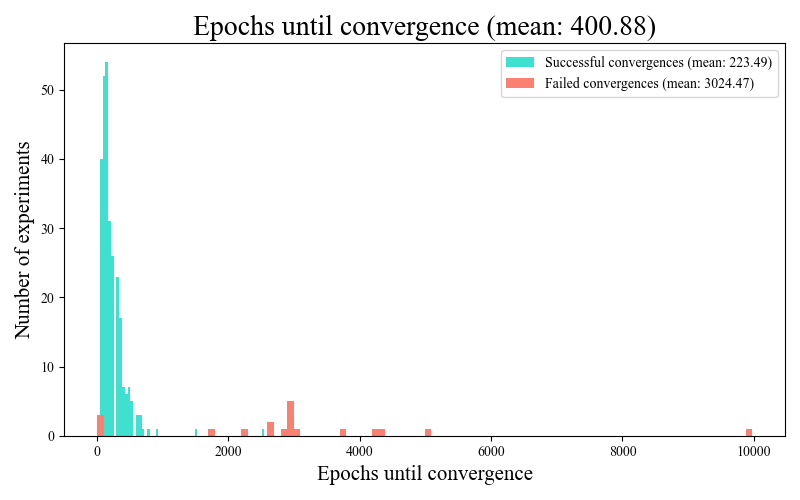
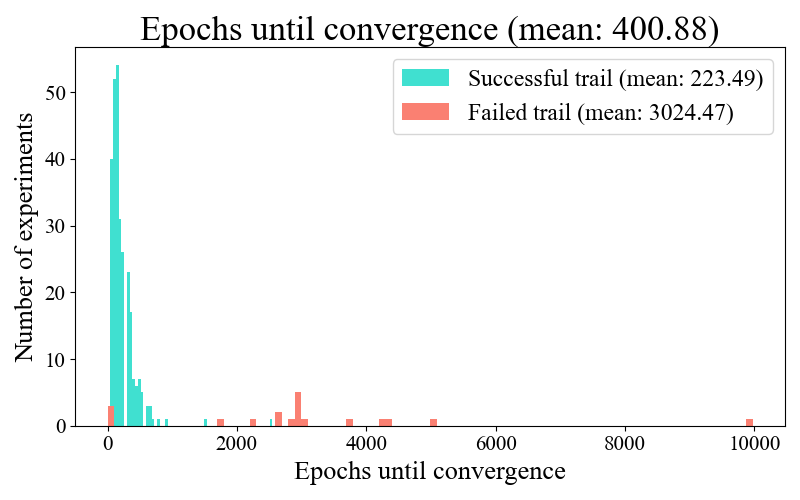
Updating from tlp computer

diff --git a/check_results.py b/check_results.py
@@ -61,8 +61,8 @@ def analyze_for_100_5_3():
     xs = np.array(list(scale_successes1.keys()))
     ys1, ys2 = list(scale_successes1.values()), list(scale_successes2.values())
     width, space = 2, 2
-    plt.bar(xs, ys1, color="royalblue", width=width, edgecolor="black", label=f"Integer case ({successes1})")
-    plt.bar(xs - space, ys2, color="hotpink", width=width, edgecolor="black", label=f"Normalized case ({successes2})")
+    plt.bar(xs, ys1, color="royalblue", width=width, edgecolor="black", label=f"Integer version ({successes1})")
+    plt.bar(xs - space, ys2, color="hotpink", width=width, edgecolor="black", label=f"Real version ({successes2})")
     plt.bar(xs + space, list(scale_successes.values()), color="turquoise", width=width, edgecolor="black",
             label=f"Total ({total_successes})")
     plt.xticks(list(scale_successes1.keys()), rotation=45)
@@ -71,8 +71,8 @@ def analyze_for_100_5_3():
     plt.ylabel("Number of successes", fontsize=15)
     plt.legend()
     plt.tight_layout()
-    plt.savefig(join("plots", "successes_per_scale_100_5_3.png"))
-    plt.close()
+    plt.savefig(join("plots", "default_hp_results", "successes_per_scale_100_5_3.png"))
+    plt.show()
 
 
 def analyze_for_hybrid_200():
@@ -127,7 +127,7 @@ def analyze_for_300_vary():
     # Modify the working directory
     WORKING_DIR = join("output_dirs", "300_vary")
 
-    plt.subplots(1, 4, figsize=(18, 4.5))
+    plt.subplots(2, 2, figsize=(18, 12))
 
     for i in range(len(combinations)):
         # Sum the successes
@@ -167,22 +167,23 @@ def analyze_for_300_vary():
         if i == 4:
             continue
 
-        plt.subplot(1, 4, i + 1)
+        plt.subplot(2, 2, i + 1)
         plt.title(
             f"Successes per scale for {combinations[i][1]}_{combinations[i][0]}",
             fontsize=20)
         xs = np.array(list(scale_successes1.keys()))
         ys1, ys2 = list(scale_successes1.values()), list(scale_successes2.values())
         width, space = 2, 2
-        plt.bar(xs, ys1, color="royalblue", width=width, edgecolor="black", label=f"Integer case ({successes1})")
+        plt.bar(xs, ys1, color="royalblue", width=width, edgecolor="black", label=f"Integer version ({successes1})")
         plt.bar(xs - space, ys2, color="hotpink", width=width, edgecolor="black",
-                label=f"Normalized case ({successes2})")
+                label=f"Real version ({successes2})")
         plt.bar(xs + space, list(scale_successes.values()), color="turquoise", width=width, edgecolor="black",
                 label=f"Total ({total_successes})")
         plt.xticks(list(scale_successes1.keys()), rotation=45)
         plt.yticks(range(repetitions + 1))
-        plt.xlabel("Scale", fontsize=15)
-        if i == 0:
+        if i == 2 or i == 3:
+            plt.xlabel("Scale", fontsize=15)
+        if i == 0 or i == 2:
             plt.ylabel("Number of successes", fontsize=15)
         plt.legend()
 
@@ -193,8 +194,8 @@ def analyze_for_300_vary():
 
 
 def analyze_ablation():
-    plt.subplots(2, 3, figsize=(18, 10))
-    plt.suptitle("Ablation study results", fontsize=30)
+    plt.subplots(3, 2, figsize=(13, 17))
+    plt.suptitle("Ablation study results", fontsize=40, y=0.99)
     # Sum the successes
     successes1, successes2, successes3, successes4 = 0, 0, 0, 0
     scale_successes1, scale_successes2, scale_successes3, scale_successes4 = {}, {}, {}, {}
@@ -242,8 +243,8 @@ def analyze_ablation():
             successes4 += 1
             scale_successes4[scale] += 1
 
-    plt.subplot(2, 3, 1)
-    plt.title(f"Ablation success per scale - 100", fontsize=20)
+    plt.subplot(3, 2, 1)
+    plt.title(f"Ablation success per scale - 100", fontsize=27)
     xs = np.array(list(scale_successes1.keys()))
     ys1, ys2, ys3, ys4 = (list(scale_successes1.values()), list(scale_successes2.values()),
                           list(scale_successes3.values()), list(scale_successes4.values()))
@@ -256,10 +257,10 @@ def analyze_ablation():
             label=f"Without using regularization ({successes2})")
     plt.bar(xs + 1.5 * space, ys4, color="hotpink", width=width, edgecolor="black",
             label=f"Full model ({successes4})")
-    plt.xticks(list(scale_successes1.keys()), rotation=45)
-    plt.yticks(range(repetitions + 1))
+    plt.xticks(list(scale_successes1.keys()), rotation=45, fontsize=15)
+    plt.yticks(range(repetitions + 1), fontsize=15)
     # plt.xlabel("Scale", fontsize=15)
-    plt.ylabel("Amount of successes", fontsize=15)
+    plt.ylabel("Amount of successes", fontsize=20)
     plt.legend()
 
     combinations = [[3, 5], [3, 6], [3, 4], [4, 4], [2, 7]]
@@ -313,8 +314,8 @@ def analyze_ablation():
                 successes4 += 1
                 scale_successes4[scale] += 1
 
-        plt.subplot(2, 3, i + 2)
-        plt.title(f"Ablation successes per scale for {combinations[i][1]}_{combinations[i][0]}", fontsize=20)
+        plt.subplot(3, 2, i + 2)
+        plt.title(f"Ablation successes per scale for {combinations[i][1]}_{combinations[i][0]}", fontsize=27)
         xs = np.array(list(scale_successes1.keys()))
         ys1, ys2, ys3, ys4 = (list(scale_successes1.values()), list(scale_successes2.values()),
                               list(scale_successes3.values()), list(scale_successes4.values()))
@@ -327,12 +328,12 @@ def analyze_ablation():
                 label=f"Without using regularization ({successes2})")
         plt.bar(xs + 1.5 * space, ys4, color="hotpink", width=width, edgecolor="black",
                 label=f"Full model ({successes4})")
-        plt.xticks(list(scale_successes1.keys()), rotation=45)
-        plt.yticks(range(repetitions + 1))
-        if i > 1:
-            plt.xlabel("Scale", fontsize=15)
-        if i == 2:
-            plt.ylabel("Amount of successes", fontsize=15)
+        plt.xticks(list(scale_successes1.keys()), rotation=45, fontsize=15)
+        plt.yticks(range(repetitions + 1), fontsize=15)
+        if i > 2:
+            plt.xlabel("Scale", fontsize=20)
+        if i in [1, 3]:
+            plt.ylabel("Amount of successes", fontsize=20)
         plt.legend()
 
     plt.tight_layout(pad=1.3)
@@ -529,16 +530,111 @@ def find_mean_epoch():
 
     # Plot the histogram where successful and failed epochs are in different colors
     plt.figure(figsize=(8, 5))
-    plt.title(f"Epochs until convergence (mean: {mean_epochs:.2f})", fontsize=20)
-    plt.hist(successful_epochs, bins=60, color="turquoise", label=f"Successful convergences (mean: {mean_successful:.2f})")
-    plt.hist(failed_epochs, bins=100, color="salmon", label=f"Failed convergences (mean: {mean_fail:.2f})")
-    plt.xlabel("Epochs until convergence", fontsize=15)
-    plt.ylabel("Number of experiments", fontsize=15)
-    plt.legend()
+    plt.title(f"Epochs until convergence (mean: {mean_epochs:.2f})", fontsize=25)
+    plt.hist(successful_epochs, bins=60, color="turquoise", label=f"Successful trail"
+                                                                  f" (mean: {mean_successful:.2f})")
+    plt.hist(failed_epochs, bins=100, color="salmon", label=f"Failed trail (mean: {mean_fail:.2f})")
+    plt.xlabel("Epochs until convergence", fontsize=19)
+    plt.ylabel("Number of experiments", fontsize=19)
+    plt.xticks(fontsize=15)
+    plt.yticks(fontsize=15)
+    # Increase font size
+    plt.legend(fontsize=17)
     plt.tight_layout()
     plt.savefig(join("plots", "mean_epochs_until_convergence_300_vary.png"))
     plt.show()
 
 
+def plot_loss_distribution_of_fails():
+    """
+    Find the mean epoch for convergence.
+    """
+    WORKING_DIR = join("output_best_hp", "dataset_hybrid_1000_deg15", "train_17")
+    epochs, success, decomposable, losses = [], [], [], []
+
+    for i in range(1, 1001):
+        thread_dir = join(WORKING_DIR, "thread_" + str(i))
+        with open(join(thread_dir, "polynomials.txt"), "r") as f:
+            lines = f.readlines()
+            loss = float(lines[6].split("Loss = ")[1].strip())
+            losses.append(loss)
+            epoch = int(lines[6].split("Epoch")[1].split(":")[0].strip())
+            if loss < 1e-5:
+                success.append(1)
+            else:
+                success.append(0)
+            epochs.append(epoch)
+            if i <= 500:
+                decomposable.append(1)
+            else:
+                decomposable.append(0)
+
+    epochs = np.array(epochs)
+    success = np.array(success)
+    decomposable = np.array(decomposable)
+    losses = np.array(losses)
+
+    dec_losses, non_dec_losses = losses[decomposable + success == 1], losses[decomposable == 0]
+    dec_epochs, non_dec_epochs = epochs[decomposable + success == 1], epochs[decomposable == 0]
+
+    fig, axs = plt.subplots(1, 3, figsize=(16, 5))
+    plt.subplot(1, 3, 1)
+    plt.title(f"Final loss", fontsize=20)
+    plt.hist(dec_losses, bins=60, color="turquoise", label=f"Decomposable polynomials")
+    plt.hist(non_dec_losses, bins=100, color="salmon", label=f"Non-decomposable polynomials")
+    plt.xlabel("Final Loss", fontsize=17)
+    plt.ylabel("Number of experiments", fontsize=17)
+    plt.xticks(fontsize=12)
+    plt.yticks(fontsize=12)
+    # Increase font size
+    plt.legend(fontsize=14)
+
+    plt.subplot(1, 3, 2)
+    plt.title(f"Epochs until convergence", fontsize=20)
+    plt.hist(non_dec_epochs, bins=100, color="salmon", label=f"Non-decomposable polynomials")
+    plt.hist(dec_epochs, bins=60, color="turquoise", label=f"Decomposable polynomials")
+    plt.xlabel("Epochs until convergence", fontsize=17)
+    plt.ylabel("Number of experiments", fontsize=17)
+    plt.xticks(fontsize=12)
+    plt.yticks(fontsize=12)
+    # Increase font size
+    plt.legend(fontsize=14)
+
+    plt.subplot(1, 3, 3)
+    # Plot a 2d plot of final loss vs epochs until convergence, where decomposable and non-decomposable are in different colors
+    plt.title(f"Final loss vs Epochs until convergence", fontsize=20)
+    plt.scatter(dec_epochs, dec_losses, color="turquoise", label=f"Decomposable polynomials", alpha=0.6)
+    plt.scatter(non_dec_epochs, non_dec_losses, color="salmon", label=f"Non-decomposable polynomials", alpha=0.6)
+    plt.xlabel("Epochs until convergence", fontsize=17)
+    plt.ylabel("Final Loss", fontsize=17)
+    plt.xticks(fontsize=12)
+    plt.yticks(fontsize=12)
+    # Increase font size
+    plt.legend(fontsize=14)
+
+    plt.suptitle("Distributions of Decomposable vs Non-Decomposable Polynomials", fontsize=26)
+
+    plt.tight_layout(pad=1.9)
+    plt.savefig(join("plots", "rq1_plots", "distribution_of_decomposable_vs_non_decomposable.png"))
+    plt.show()
+
+
+def put_losses_in_figure():
+    scale = 1.5
+    plt.subplots(2, 3, figsize=(10 * scale, 6 * scale))
+    paths = [f"output_best_hp/dataset_hybrid_1000_deg15/train_17/thread_{i}/loss.png" for i in [3, 22, 30, 524, 530, 540]]
+    # Load an image to each subplot
+    for i in range(6):
+        plt.subplot(2, 3, i + 1)
+        img = plt.imread(paths[i])
+        plt.imshow(img)
+        plt.axis('off')
+
+    plt.suptitle("Loss curves for decomposable vs Non-decomposable experiments", fontsize=20 * scale, y=0.95)
+    plt.tight_layout(pad=2.0)
+    plt.savefig(join("plots", "rq1_plots", "loss_curves_examples.png"))
+    plt.show()
+
+
 if __name__ == "__main__":
-    find_mean_epoch()
+    plot_loss_distribution_of_fails()

diff --git a/create_dataset.py b/create_dataset.py
@@ -148,17 +148,17 @@ def compare_coefficients():
         plt.subplot(4, 4, deg + 1)
         plt.hist(coeffs1, bins=50, alpha=0.5, label='Decomposable', color='turquoise', density=True)
         plt.hist(coeffs2, bins=50, alpha=0.5, label='Non-Decomposable', color='red', density=True)
-        plt.title(f'Coefficient Distribution for x^{deg}', fontsize=20)
-        plt.xlabel('Coefficient Value', fontsize=15)
-        plt.ylabel('Density', fontsize=15)
+        plt.title(f'Coefficient Distribution for x^{deg}', fontsize=24)
+        plt.xlabel('Coefficient Value', fontsize=18)
+        plt.ylabel('Density', fontsize=18)
         plt.legend()
 
     # Adjust layout and show plot
-    plt.suptitle("Coefficient Distributions for Decomposable vs Non-Decomposable Polynomials", fontsize=28, y=0.99)
+    plt.suptitle("Coefficient Distributions for Decomposable vs Non-Decomposable Polynomials", fontsize=35, y=0.99)
     plt.tight_layout(pad=1.2)
     plt.savefig(join("plots", 'hybrid_new_coefficient_distributions.png'))
     plt.show()
 
 
 if __name__ == "__main__":
-    pass
+    compare_coefficients()
